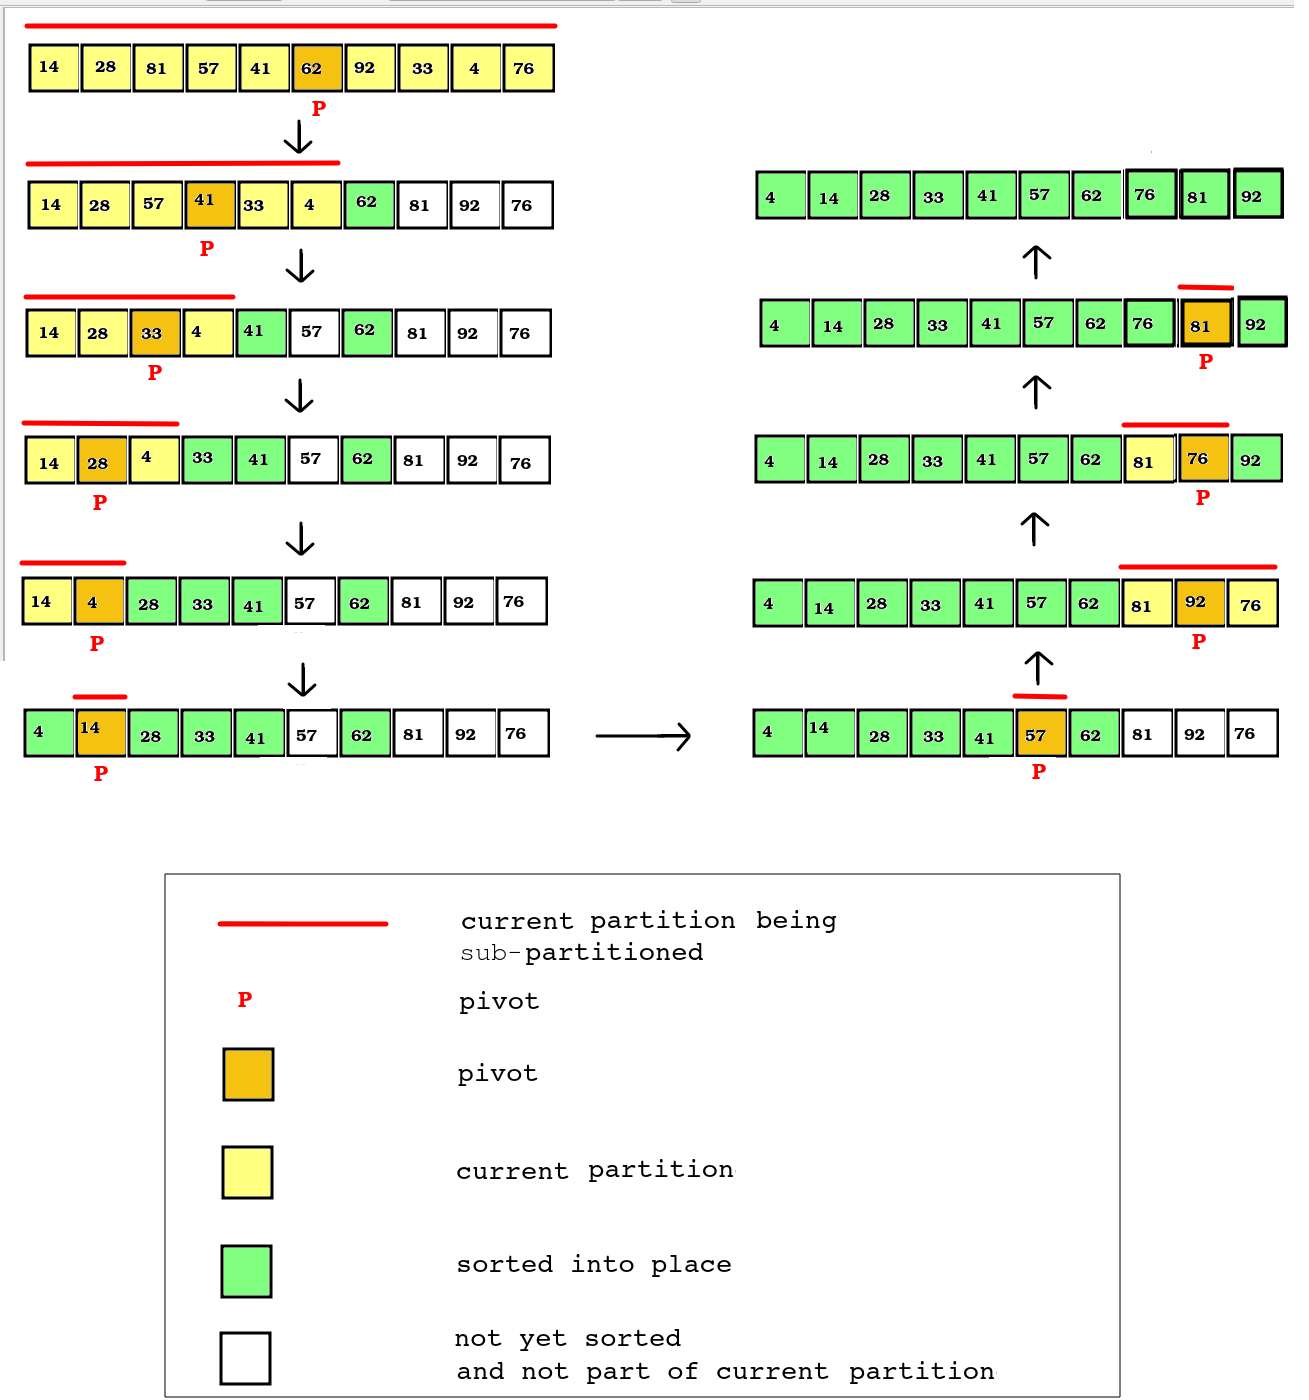
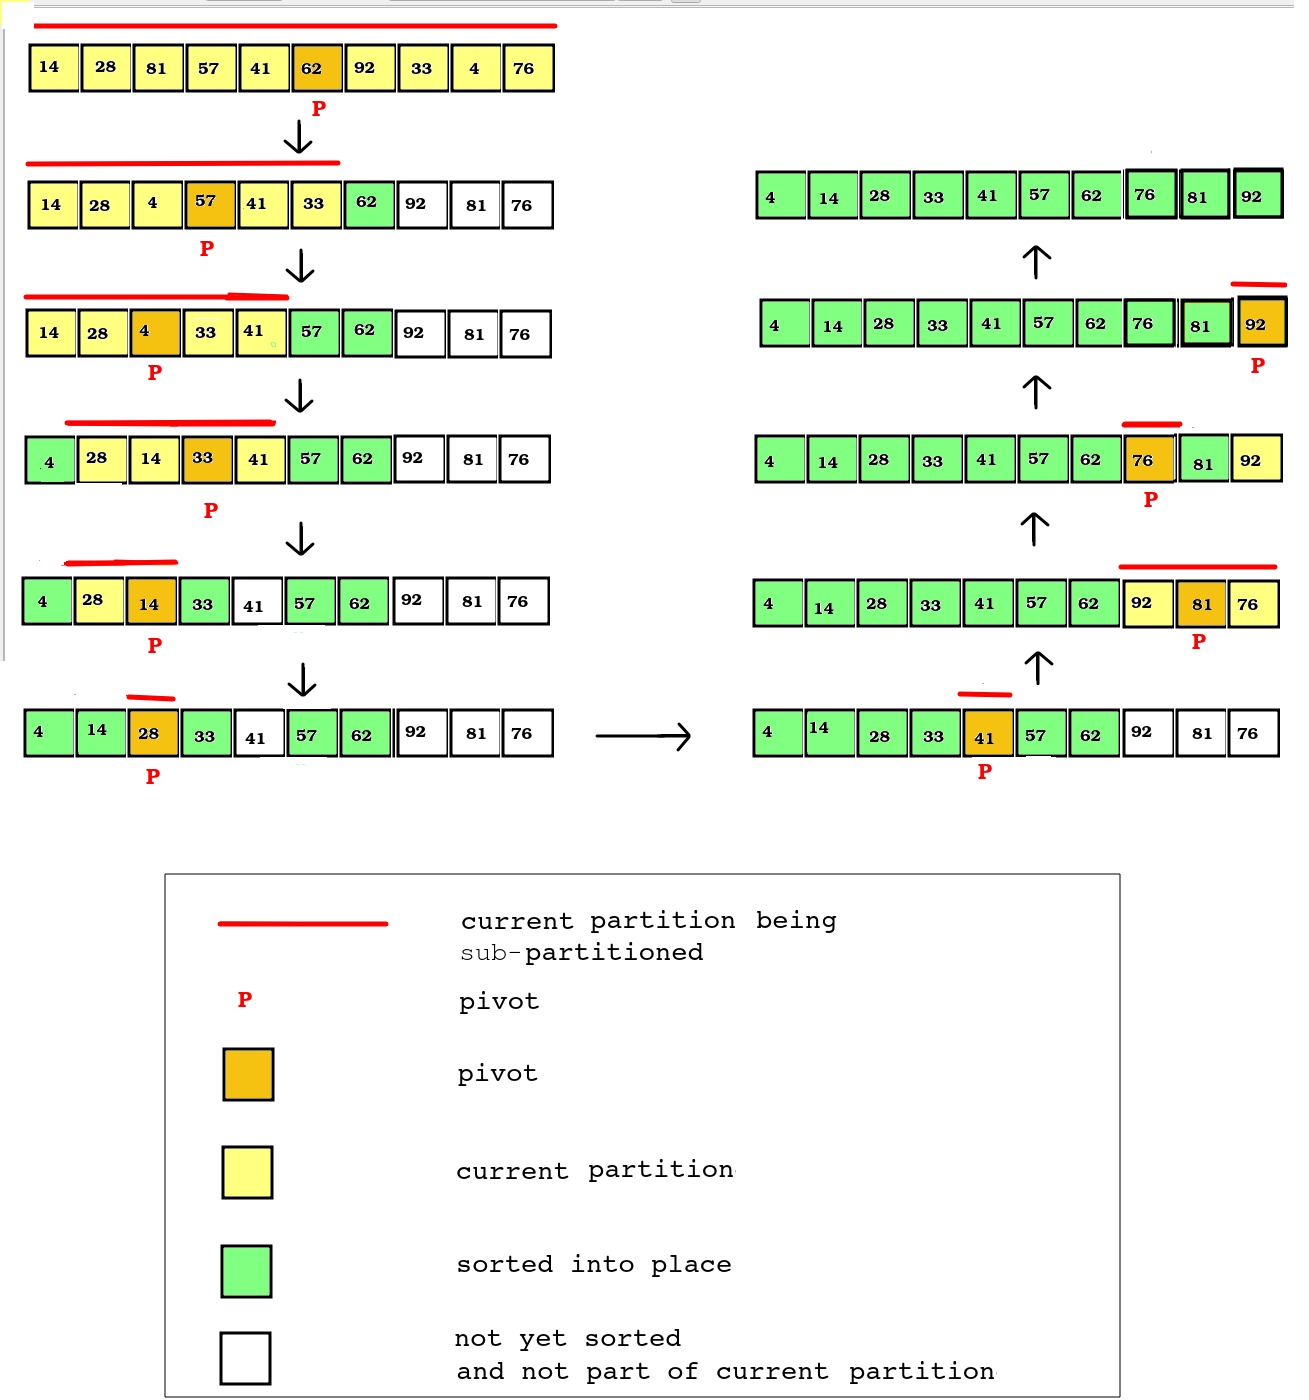
Quicksort amendments

diff --git a/COM431/sorting2.html b/COM431/sorting2.html
@@ -70,10 +70,10 @@ The diagram below shows how, with each run of the Hoare partitioning algorithm, 
 <ul>
 <li>Note how we progressively partition the list into smaller and smaller sub-partitions. We first partition the entire list, by selecting one of the centre two elements (62) as the pivot and partitioning the list into those values less than 62 and those greater than 62.</li>
 <li>We then end up with two sub-partitions, one consisting of the first 6 elements of the list (those values less than 62) and the second consisting of the final three elements (those values greater then 62). Furthermore, as a result of this partitioning, <strong>the value 62 has been sorted into place (in its correct place in the list)</strong></li>
-<li>We repeat the process with the first of these two partitions (the first six elements) by selecting a new pivot (41) and sub-partitioning into those values less than 41 and those values greater than 41.</li>
-<li>We then end up with two sub-partitions again, one with four elements (14, 28, 33, 4) and another with just one element (57). Again, the value 41 <strong>has been sorted into place</strong>.</li>
-<li>We then recursively run the Hoare algorithm on the first of these sub-partitions (14, 28, 33, 4). We first select a new pivot (33) and sub-partition this section again. In this case, as all the other values are less than the pivot, we will end up with just one sub-partition from Hoare (consisting of 14, 28 and 4).</li>
-<li>We keep repeating the partitioning process until we end up with a partition of length one. When this happens, we cannot sub-partition any more. As discussed above, the whole process is <em>recursive</em>: each partitioning is called from the previous partitioning. So when the current partition has a length of 1, we simply return from the "master" partitioning function (as seen above) and descend the recursion stack.</li>
+<li>We repeat the process with the first of these two partitions (the first six elements) by selecting a new pivot (57) and sub-partitioning into those values less than 57 and those values greater than 57 (none). The value 57 has now been sorted into place.</li>
+<li>We then end up with just one sub-partition as all the other numbers in the previous step were less than the last pivot (57). The new pivot is 4 as it's the midpoint. Again this will only produce one sub-partition as all numbers are greater than 4. 4 is sorted into place.</li>
+<li>We then end up with the values 28, 14, 33 and 41 in the current subpartition. The new pivot is 33. This time we end up with two partitions: 28 and 14 (less than 33) and 41 (greater than 33). 33 is sorted into place.</li>
+<li>The process repeats until all numbers are sorted.</li>
 </ul>
 <br />
 <img src="../images/quicksort.png" alt="Quicksort" />
